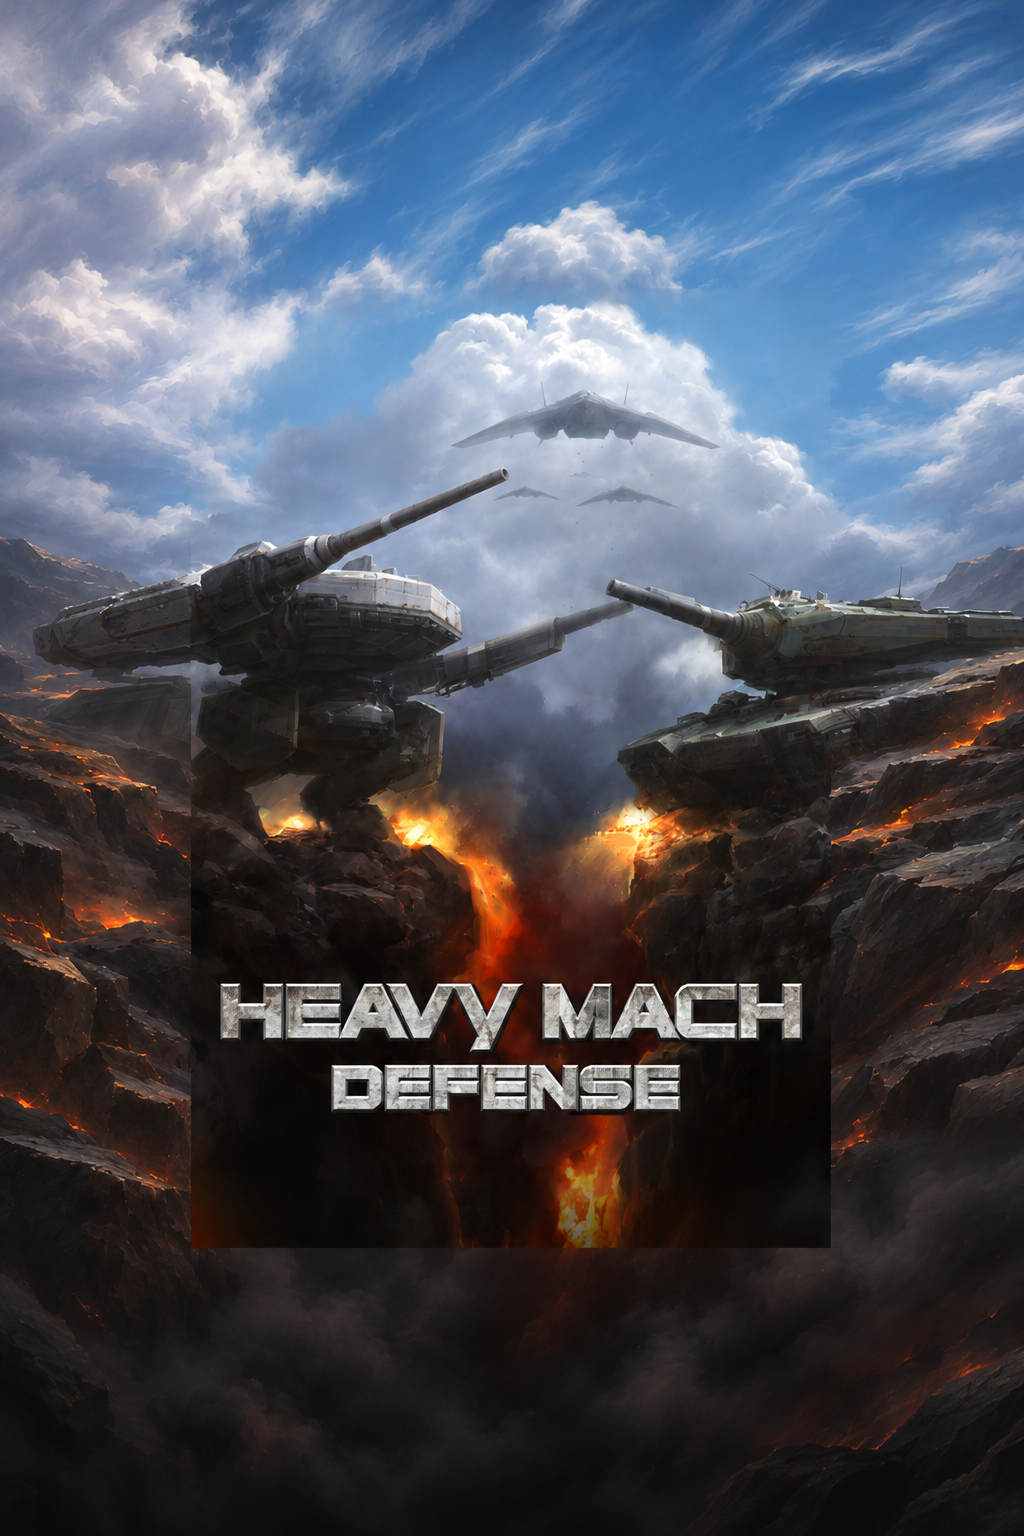
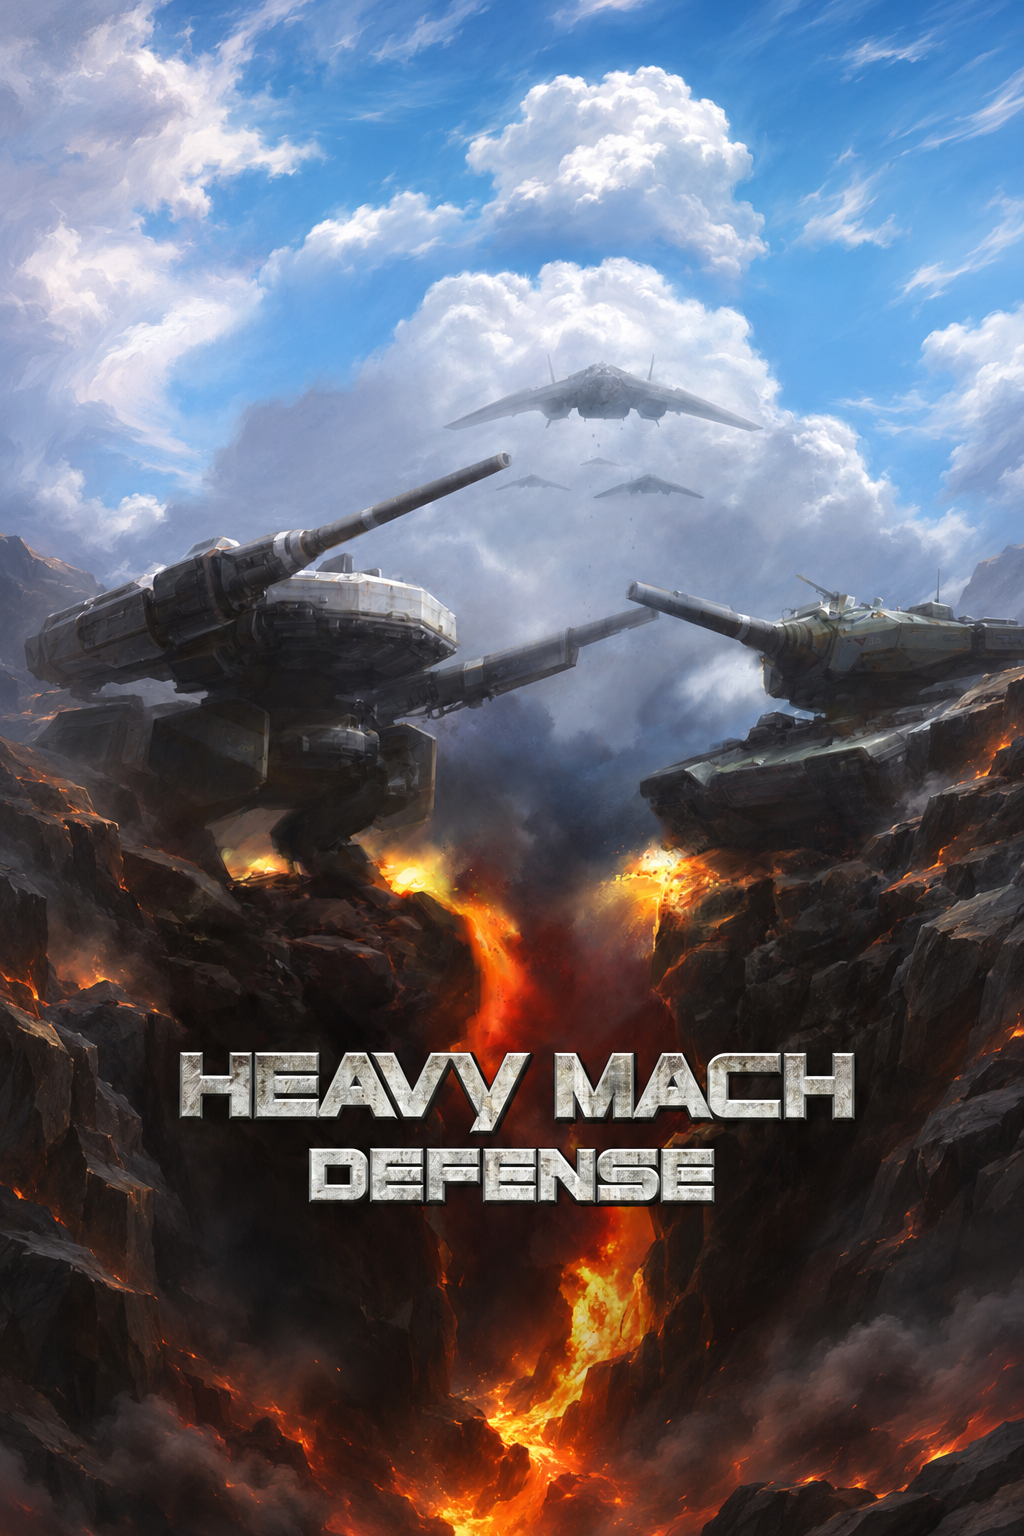
fix: remove title seams and roll back HUD stretching

diff --git a/Sources/Core/Presentation/Menu.cpp b/Sources/Core/Presentation/Menu.cpp
@@ -218,8 +218,12 @@ void Menu::expandFrame(){
             // The generated canvas supplies only the outside landscape. The
             // original 640x960 title, including its logo, is drawn unchanged.
             // Registration is measured against the original; see provenance.
-            const float sx[]={192-std::min(192.f,center.x*2),192,832,832+std::min(192.f,(layout_.width-center.x-320)*2)};
-            const float sy[]={288-std::min(288.f,center.y*2),288,1248,1248+std::min(288.f,(layout_.height-center.y-480)*2)};
+            constexpr float artX=144,artY=243,artWidth=745,artHeight=1118;
+            constexpr float scaleX=artWidth/320,scaleY=artHeight/480;
+            const float sx[]={artX-std::min(artX,center.x*scaleX),artX,artX+artWidth,
+                artX+artWidth+std::min(1024-artX-artWidth,(layout_.width-center.x-320)*scaleX)};
+            const float sy[]={artY-std::min(artY,center.y*scaleY),artY,artY+artHeight,
+                artY+artHeight+std::min(1536-artY-artHeight,(layout_.height-center.y-480)*scaleY)};
             const float dx[]={0,center.x,center.x+320,layout_.width};
             const float dy[]={0,center.y,center.y+480,layout_.height};
             auto edge=s;edge.image="Generated/TitleOutpaint.png";
@@ -228,23 +232,31 @@ void Menu::expandFrame(){
                 piece(edge,{sx[col],sy[row],sx[col+1]-sx[col],sy[row+1]-sy[row]},
                            {dx[col],dy[row],dx[col+1]-dx[col],dy[row+1]-dy[row]});
             }
-            // Fade the original edge colour into the outpaint outside the
-            // original rectangle. This avoids a hard exposure seam without
-            // repainting the original illustration or repeating its objects.
-            auto join=[&](Vec2 a,Vec2 b,Vec2 outward,Vec2 uvA,Vec2 uvB){
-                if(outward.x==0&&outward.y==0)return;
-                TextureMesh mesh;mesh.image="Title.jpg";mesh.beforeSpriteIndex=frame_.sprites.size();
-                mesh.vertices={{{a.x+outward.x,a.y+outward.y},uvA,{1,1,1,0}},
-                               {{b.x+outward.x,b.y+outward.y},uvB,{1,1,1,0}},
-                               {a,uvA,{1,1,1,1}},{b,uvB,{1,1,1,1}}};
+            piece(s,{0,0,640,960},{center.x,center.y,320,480});
+            // Overlap the outpaint with the original edge using its actual
+            // neighbouring pixels. Do not stretch a single original pixel row
+            // into a strip: that leaves a visible straight band.
+            auto overlap=[&](Rect rect,bool horizontal,bool reverse){
+                TextureMesh mesh;mesh.image="Generated/TitleOutpaint.png";
+                mesh.beforeSpriteIndex=frame_.sprites.size();
+                // Smooth opacity progression, including at both ends.
+                for(unsigned i=0;i<=8;++i){
+                    const float t=float(i)/8,fade=t*t*(3-2*t);
+                    const float alpha=reverse?fade:1-fade;
+                    for(unsigned side=0;side<2;++side){
+                        const float x=rect.x+rect.width*(horizontal?float(side):t);
+                        const float y=rect.y+rect.height*(horizontal?t:float(side));
+                        mesh.vertices.push_back({{center.x+x,center.y+y},
+                            {(artX+x*scaleX)/1024,(artY+y*scaleY)/1536},{1,1,1,alpha}});
+                    }
+                }
                 frame_.meshes.push_back(std::move(mesh));
             };
-            const float left=center.x,right=center.x+320,topY=center.y,bottomY=center.y+480;
-            join({left,topY},{right,topY},{0,-std::min(24.f,topY)},{0,.5f/960},{1,.5f/960});
-            join({left,bottomY},{right,bottomY},{0,std::min(24.f,layout_.height-bottomY)},{0,959.5f/960},{1,959.5f/960});
-            join({left,topY},{left,bottomY},{-std::min(4.f,left),0},{.5f/640,0},{.5f/640,1});
-            join({right,topY},{right,bottomY},{std::min(4.f,layout_.width-right),0},{639.5f/640,0},{639.5f/640,1});
-            piece(s,{0,0,640,960},{center.x,center.y,320,480});continue;
+            if(center.y>0)overlap({0,0,320,32},true,false);
+            if(center.y+480<layout_.height)overlap({0,448,320,32},true,true);
+            if(center.x>0)overlap({0,0,8,480},false,false);
+            if(center.x+320<layout_.width)overlap({312,0,8,480},false,true);
+            continue;
         }
         if(s.image=="iPon_SelSlot_BG@2x.jpg"||s.image=="iPon_SelStage_Fore@2x.png"){panel(s);continue;}
         if(s.image.empty()){s.destination={0,0,layout_.width,layout_.height};frame_.sprites.push_back(std::move(s));continue;}

diff --git a/Sources/Core/Presentation/GameHUD.cpp b/Sources/Core/Presentation/GameHUD.cpp
@@ -70,20 +70,14 @@ void GameHUD::append(Frame& f)const{
     // GuiGame::init 0x25748 gives baseBuildSlot layer 5. The gameUI
     // background and its QuickBtn children inherit GuiGame layer 9 through
     // QobBase::addChild 0x3f274. Draw the slot background before that HUD.
-    if(state_.productionVisible&&state_.selectedPanel>=1&&state_.selectedPanel<=3){
-        const float extra=std::max(0.f,layout_.height-layout_.top-layout_.bottom-480);
+    if(state_.productionVisible&&state_.selectedPanel>=1&&state_.selectedPanel<=3)
         image(f,"GameUI_MachSlot.png",{256,252});
-        if(extra>0){
-            // Keep the resource header and lower join at their original size.
-            // Lengthen the detailed metal body, not its flat bottom pixels.
-            const auto original=f.sprites.back();f.sprites.pop_back();
-            auto section=[&](float sourceY,float sourceH,float y,float h){
-                auto sprite=original;sprite.sourcePx=Rect{0,sourceY,256,sourceH};
-                sprite.destination={192,y,128,h};f.sprites.push_back(std::move(sprite));
-            };
-            section(0,240,-28,120);
-            section(240,496,92,248+extra);
-            section(736,288,340+extra,144);
+    // Extend only the blank metal tail of the original sidebar, at its native
+    // pixel scale. The gameplay background and terrain are never repeated.
+    if(state_.productionVisible&&layout_.height-layout_.bottom>480+layout_.top){
+        for(float y=484;y<layout_.height-layout_.bottom-layout_.top;y+=64){
+            const float h=std::min(64.f,layout_.height-layout_.bottom-layout_.top-y);
+            Sprite tail;tail.image="GameUI_MachSlot.png";tail.sourcePx=Rect{0,896,256,h*2};tail.destination={192,y,128,h};f.sprites.push_back(tail);
         }
     }
     move(layout_.topRight());

diff --git a/Tests/GameHUDTests.cpp b/Tests/GameHUDTests.cpp
@@ -109,24 +109,6 @@ int main(int argc,char** argv){
             tap(h,284,469);assert(h.takeActions().at(0).buttonId==0x413);
         }
     }
-    // Tall screens extend the original bevelled body, with no flat repeated
-    // footer. Layout changes must not move the production/button hit targets.
-    for(const auto dims:{Vec2{420,912},Vec2{1024,1366}}){
-        FrameLayout layout;layout.resize(dims.x,dims.y,24,20);h.setLayout(layout);
-        state.selectedPanel=1;state.mainPanelOffsetY=0;state.production[0].enabled=true;h.setState(state);
-        f={};h.append(f);validate(f,r);const auto tr=layout.topRight(),br=layout.bottomRight();
-        float bottom=-28+tr.y;unsigned strips=0;
-        for(const auto& sp:f.sprites)if(sp.image=="GameUI_MachSlot.png"){
-            assert(std::abs(sp.destination.y-bottom)<.001f);
-            bottom=sp.destination.y+sp.destination.height;++strips;
-            assert(sp.sourcePx->y!=896);
-        }
-        assert(bottom>=layout.height-layout.bottom);
-        tap(h,292+tr.x,52+tr.y);assert(h.takeActions().at(0).buttonId==0x40d);
-        tap(h,284+br.x,446+br.y);assert(h.takeActions().at(0).buttonId==0x415);
-        assert(strips==1||strips==3);
-    }
-    h.setLayout(FrameLayout{});
     // Original MachButton right-column tiles contain the glow. Hold, cancel,
     // select and clear each lower button without creating a new effect asset.
     const auto lowerTile=[&](const Frame& frame,unsigned index){

diff --git a/Tests/MenuTests.cpp b/Tests/MenuTests.cpp
@@ -124,8 +124,15 @@ int main(int argc,char** argv){
         const auto meshCount=resized.frame().meshes.size();
         for(int tick=0;tick<120;++tick)resized.tick();
         assert(resized.frame().meshes.size()==meshCount); // No per-frame mesh accumulation.
-        for(const auto& mesh:resized.frame().meshes)for(const auto& v:mesh.vertices)
-            assert(v.position.x<=c.x||v.position.x>=c.x+320||v.position.y<=c.y||v.position.y>=c.y+480);
+        for(const auto& mesh:resized.frame().meshes){
+            assert(mesh.image=="Generated/TitleOutpaint.png");
+            for(const auto& v:mesh.vertices){
+                const float x=v.position.x-c.x,y=v.position.y-c.y;
+                assert(x<=8||x>=312||y<=32||y>=448);
+                assert(std::abs(v.uv.x-(144+x*(745.f/320))/1024)<.00001f&&std::abs(v.uv.y-(243+y*(1118.f/480))/1536)<.00001f);
+                assert(v.color.a>=0&&v.color.a<=1);
+            }
+        }
 
         for(float y=0;y<layout.height;y+=8)for(float x=0;x<layout.width;x+=8){
             bool covered=false;for(const auto& sp:resized.frame().sprites){const auto d=sp.destination;

diff --git a/docs/usability-todo.md b/docs/usability-todo.md
@@ -25,7 +25,7 @@
 | 아군 터렛 밀집 시 메크 정체 | 평지의 터렛 간격·배열·진입 방향별 재현과 원본 회피 처리 대조가 남았다. |
 | 화면 밖 적에 대한 포탑 반격 | **사용자 지시로 보류(2026-11-05).** 표적 등록·맵 경계·조준·발사를 같은 월드 좌표에서 대조한다. 사거리만 늘려 해결하지 않는다. |
 | 미션 3 구멍 위 포탑 설치 | 포팅판의 동일 위치 설치 여부를 확인한다. |
-| 오른쪽 HUD·메뉴 그림 | HUD·타이틀 수정과 시뮬레이터 검사를 마쳤다. 실기기 설치·그림 확인과 다른 메뉴 경계 대조가 남았다. [수정 전후](evidence/hud-title-20261105.md). |
+| 오른쪽 HUD·메뉴 그림 | **HUD 수정은 사용자 지시로 롤백했다. 재작업 필요.** 몸통 세로 늘리기 방식은 철회한다. 타이틀은 합성 경계를 다시 수정하고 시뮬레이터 검사를 통과했다. [작업 기록](evidence/hud-title-20261105.md). |
 | 그래픽·입력 전수 대조 | 하단 버튼 글로우·선택/해제, 전체 생산·강화·보상 미리보기, 두 세로 방향의 실제 회전·터치를 확인한다. 기지 강화 창 위치·레이어와 iPad 직접 구매 검사는 완료했다. |
 | 저장 경계값·포팅판 진행 대조 | 최대 강화 단계 초과값 보정, 같은 입력·난수 조건의 교전·보상·저장 대조가 남았다. |
 | 생산 HUD 개수·순서 | 원본의 7개 제한 여부를 조사한다. 결과에 따라 전체 목록 세로 스크롤과 순서 편집·저장을 설계한다. |
@@ -79,9 +79,9 @@
 - 사용자 관측: iPad는 오른쪽 HUD의 입체감이 살아 있고, iPhone은 그 부분에 회색 요소를 덧붙인 것처럼 보인다. **iPad의 처리를 수정 기준으로 채택한다.**
 - 확인: 현재 GameHUD.cpp는 긴 화면에서 GameUI_MachSlot.png의 하단 조각을 반복한다. 같은 소스의 base-layer-captures iPhone Air·iPad Air 화면에서도 iPhone 아래쪽에 평평한 회색 연장 부분이 보인다.
 - 설치 차이: iPhone 정식은 01:24, iPad는 01:49·01:50 설치본이다. iPad에 적용한 월드 옆 회색 띠 제거는 iPhone 설치본에 아직 없다. 설치 차이와 현재 소스의 긴 화면 확장을 함께 대조한다. [설치·화면 기록](evidence/viewport-20261105.md).
-- [x] 원본 헤더·입체 몸통·하단 연결부를 나누고 몸통으로 긴 화면을 채웠다. [수정·검사](evidence/hud-title-20261105.md).
-- [x] iPhone·iPad 화면 조건의 생산·메뉴·강화·배치·레이더·복귀를 시뮬레이터에서 검사했다.
-- [ ] 최신 화면 수정본의 iPad 실기기 설치·그림 확인. iPhone 사용 중에는 기기를 조작하지 않는다.
+- [ ] **재작업:** 사용자가 HUD 과제의 해석이 잘못됐다고 지적해 몸통 세로 늘리기를 철회했다. 코드와 관련 검사는 변경 전 `5bc233e`로 되돌렸다. iPad 기준 화면과 iPhone의 차이를 다시 대조하고 의도에 맞는 처리 범위를 정한다. 원본 부품을 세로로 늘리는 안을 완료로 처리하지 않는다.
+- [ ] 재작업안의 iPhone·iPad 화면·입력 검사와 그림 확인. 이전 시안의 자동검사 통과는 채택 취소를 바꾸지 않는다.
+- [ ] 재작업 완료 뒤 iPad 실기기 설치·확인. iPhone 사용 중에는 기기를 조작하지 않는다.
 
 ### MD-MODULE-AUDIT-01 — HeavyMach 대조와 MachDefense 공용 모듈화 준비
 

diff --git a/docs/current-status.md b/docs/current-status.md
@@ -8,9 +8,9 @@
 
 모듈화와 효과음 복귀 수정도 이 브랜치에 포함돼 있다. 원작 출력음 녹음·실제 OS 중단·기준/후보 반복 성능 대조는 남았다. develop 병합과 push는 완료했다. main은 변경하지 않았다.
 
-## 오른쪽 HUD·타이틀 수정
+## 오른쪽 HUD 롤백·타이틀 경계 재수정
 
-`fix/hud-title-presentation`에서 회색 HUD 확장과 타이틀 반사·1픽셀 반복을 수정했다. C++ 3개, 5개 화면 조건의 GPU·터치·전투 상태 검사와 정식 Release 시뮬레이터 빌드를 통과했다. 원본 320×480 화면과 타이틀 중앙 그림은 수정 전후 픽셀이 같다. 이번 수정은 기기에 설치하지 않았다. [그림과 검사 결과](evidence/hud-title-20261105.md).
+사용자가 HUD 과제 해석이 잘못됐다고 지적했다. 금속 몸통을 세로로 늘린 수정은 철회하고 GameHUD와 관련 검사를 `5bc233e` 상태로 되돌렸다. HUD는 재작업 투두다. 타이틀의 원본·확장 그림 사이 직선 경계를 수정했다. C++ 3개와 5개 화면 조건의 GPU·입력 검사를 통과했다. [이전 시안과 후속 기록](evidence/hud-title-20261105.md).
 
 ## 모듈화 구현·시뮬레이터 검사
 
@@ -30,7 +30,7 @@ C++ 34개 검사와 분리 전후 160개 미션 조건·144,000틱 대조를 통
 
 미션 10·11의 원형 구조물 주변 메크 정체를 코어에서 재현했다. 원본 지형 파일은 같지만 충돌선 등록 좌표의 구현 차이를 발견했다. 그 차이만 원본대로 바꾼 로컬 시험으로는 미션 10 정체가 풀리지 않았다. 터렛 밀집 정체, 맵 상단 포탑의 화면 밖 적 대응은 추가 재현·대조 대상이다. Tap to Start의 상하좌우 확장 그림은 사용자가 부자연스럽다고 지적해 재수정 과제로 등록했다. [현재 남은 작업](usability-todo.md), [지형 진단](evidence/terrain-motion-audit-20261104.md).
 
-오른쪽 HUD는 iPad의 입체감을 기준으로 iPhone의 회색 확장을 고치는 과제로 추가했다. HeavyMach 1의 실제 모듈 구조를 대조하고 피해·이동·사거리 등 MachDefense의 공용 모듈 경계를 조사하는 과제도 등록했다. HUD 코드 수정과 시뮬레이터 검사는 위 후속 작업에서 마쳤다. 실기기 확인은 남아 있다. 공용 모듈 분리와 OpenAL Soft 연결·원작 재생 절차 복원은 위 모듈화 작업에서 진행했다. 실제 iPad 게임 상태·오디오 재생 경로·중단 복귀 검사는 통과했다. 출력음 녹음 대조는 남아 있다. MD-AUDIO-BACKEND-01. [세부 과제](usability-todo.md#추가-요청--2026-11-05).
+오른쪽 HUD는 iPad의 입체감을 기준으로 iPhone의 회색 확장을 고치는 과제로 추가했다. HeavyMach 1의 실제 모듈 구조를 대조하고 피해·이동·사거리 등 MachDefense의 공용 모듈 경계를 조사하는 과제도 등록했다. HUD 시안은 사용자 지시로 롤백했다. 재작업이 남아 있다. 공용 모듈 분리와 OpenAL Soft 연결·원작 재생 절차 복원은 위 모듈화 작업에서 진행했다. 실제 iPad 게임 상태·오디오 재생 경로·중단 복귀 검사는 통과했다. 출력음 녹음 대조는 남아 있다. MD-AUDIO-BACKEND-01. [세부 과제](usability-todo.md#추가-요청--2026-11-05).
 
 ## 화면 확장 — 2026-11-05
 

diff --git a/docs/troubleshooting.md b/docs/troubleshooting.md
@@ -2,9 +2,9 @@
 
 ## 긴 화면의 회색 HUD와 타이틀 확장 — 2026-11-05
 
-오른쪽 HUD는 원본의 평평한 꼬리 부분을 반복해 iPhone에서 회색 판처럼 보였다. 원본의 입체 금속 몸통을 늘리고 헤더·하단 연결부와 버튼 크기를 유지하도록 바꿨다.
+오른쪽 HUD의 회색 확장 지적을 금속 몸통의 세로 늘리기로 처리했다. 사용자는 과제 해석이 잘못됐다고 지적하고 롤백을 지시했다. 해당 수정과 관련 검사를 변경 전 상태로 되돌리고 재작업 투두를 열었다.
 
-타이틀은 1픽셀 가장자리와 반사한 구름·불꽃으로 확장해 복사한 흔적이 보였다. 바깥 풍경을 생성하고 중앙 그림·로고·버튼은 원본을 사용하도록 수정했다. 첫 시안의 합성 경계를 GPU 캡처에서 확인하고 재생성·경계 혼합을 적용했다. 원본 크기 화면과 중앙 그림의 픽셀 보존, 5개 화면 조건의 버튼·전투·저장을 검사했다. [수정 전후와 결과](evidence/hud-title-20261105.md).
+타이틀은 1픽셀 가장자리와 반사한 구름·불꽃으로 확장해 복사한 흔적이 보였다. 바깥 풍경을 생성하고 중앙 그림·로고·버튼은 원본을 사용하도록 수정했다. 첫 시안의 경계를 보완했지만 사용자 확인에서 직선이 여전히 두드러졌다. 원본 가장자리 한 줄을 늘려 섞는 처리와 확장 그림 내부의 사각 경계가 남아 있었다. 사각 경계가 없는 그림으로 바꾸고, 실제 인접 픽셀을 겹쳐 합성하도록 고쳤다. 최종 iPhone·iPad 캡처에서 직선 경계가 사라진 것을 확인했다. 원본 크기 화면과 중앙 그림의 픽셀 보존, 5개 화면 조건의 버튼·전투·저장을 검사했다. [수정 전후와 결과](evidence/hud-title-20261105.md).
 
 ## 오디오 세션 설정의 메인 스레드 경고 — 2026-11-05
 

diff --git a/HANDOVER-CURRENT.md b/HANDOVER-CURRENT.md
@@ -1,6 +1,6 @@
 # MachDefense 인계 — 2026-11-05
 
-현재 작업: `fix/hud-title-presentation`. 모듈화·오디오 수정·긴급지원은 `develop / 5bc233e`에 병합하고 원격에 반영했다. main은 변경하지 않았다. 오른쪽 HUD·타이틀 수정과 트러블슈팅 정리를 별도 브랜치에서 진행했다. C++ 3개, 5개 화면 조건 GPU·입력·전투 상태 검사, 정식 Release 시뮬레이터 빌드를 통과했다. [최신 화면·검사 기록](docs/evidence/hud-title-20261105.md). 이번 화면 수정본의 실기기 설치는 하지 않았다. 코드 `eff4ca3`을 원격 브랜치에 push했고 [통합 보고서](docs/report-site.md#최근-갱신--2026-11-05-오른쪽-hud타이틀) 게시도 성공했다.
+현재 작업: `fix/hud-title-presentation`. 모듈화·오디오 수정·긴급지원은 `develop / 5bc233e`에 병합·push했다. main은 변경하지 않았다. **사용자의 후속 지시로 HUD 세로 늘리기 시안을 철회했다.** GameHUD와 관련 검사는 `5bc233e`로 되돌렸으며 HUD는 재작업 투두다. 타이틀 그림의 직선 경계는 수정했고 C++ 3개·5개 화면 조건의 GPU·입력 검사를 통과했다. [작업 기록](docs/evidence/hud-title-20261105.md). 이번 수정본은 아직 실기기에 설치하지 않았다.
 
 [한 줄 복원 코드 TODO](docs/usability-todo.md#md-save-code-01--한-줄-복원-코드)를 추가했다. 원본 슬롯을 사용하고, 화면·버튼·입력판에 iOS/Android/웹 UI를 쓰지 않는다. 화면 밖 적 반격은 보류한다. 이동 정체·생산 HUD 개수·원본 출력음 대조 등은 TODO에 남아 있다.
 

diff --git a/docs/rendering-policy.md b/docs/rendering-policy.md
@@ -14,4 +14,4 @@
 
 ## HUD·타이틀 확장 — 2026-11-05
 
-긴 화면의 생산 HUD는 원본 이미지의 헤더·금속 몸통·하단 연결부로 나누고 몸통만 세로로 늘린다. 아이콘·문구·버튼의 크기와 터치는 기존 앵커를 따른다. 타이틀 중앙은 원본 `Title.jpg`, 바깥은 `Generated/TitleOutpaint.png`를 사용한다. 생성 이미지의 중앙 로고는 표시하지 않는다. 바깥 경계 혼합 메시와 스프라이트는 같은 공용 Frame에 들어간다. [근거·검사](evidence/hud-title-20261105.md), [생성 기록](../Resources/Generated/TitleOutpaint.json).
+오른쪽 HUD의 금속 몸통을 세로로 늘린 안은 사용자 지시로 철회했다. GameHUD는 `5bc233e` 상태이며 재작업 과제다. 타이틀 원본 파일·로고·버튼은 보존한다. 바깥 그림을 연결할 때 한 픽셀 가장자리를 늘려 선처럼 만들지 않는다. 접합부는 실제 인접 그림을 겹쳐 합성하고 시뮬레이터 화면에서 경계를 확인한다. [작업·후속 검사](evidence/hud-title-20261105.md).
